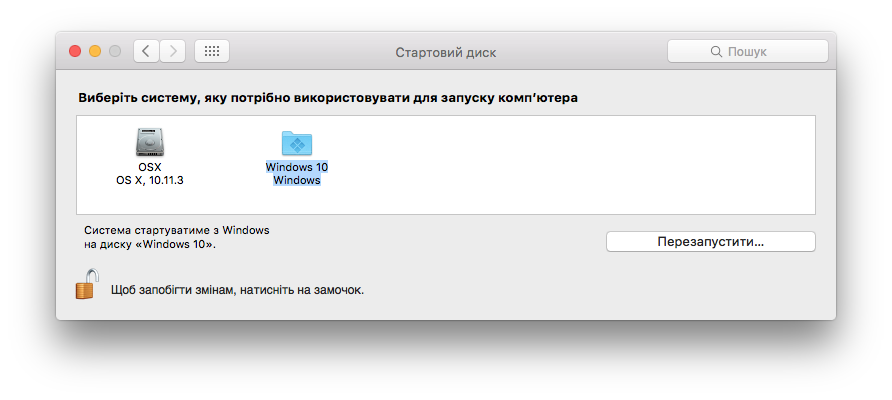
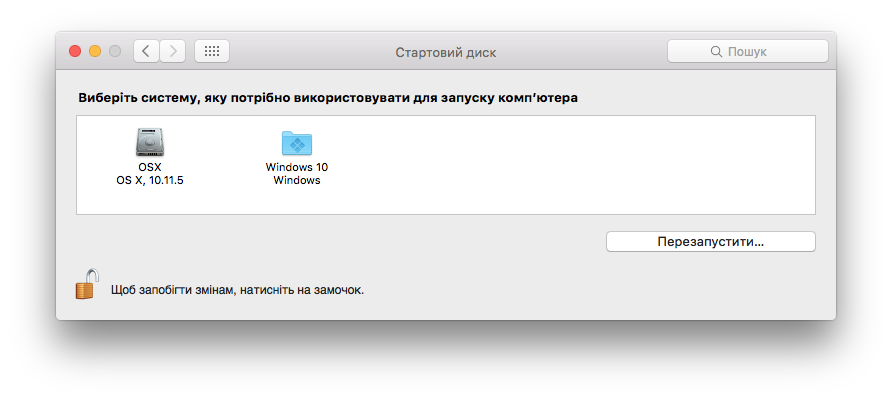
Up info for 10.11.5

Changed region(s): [[0.0908, 0.57, 0.3027, 0.63], [0.3027, 0.39, 0.3632, 0.48], [0.1211, 0.42, 0.1816, 0.48]]

diff --git a/README.md b/README.md
@@ -1,6 +1,6 @@
 # Intro
 
-This is my working config for [CLOVER][Clover] of Hackintosh (El Capitan 10.11.4).
+This is my working config for [CLOVER][Clover] of Hackintosh (El Capitan 10.11.5).
 My Hack specs:
 
 ![My hackintosh specs][System Info]
